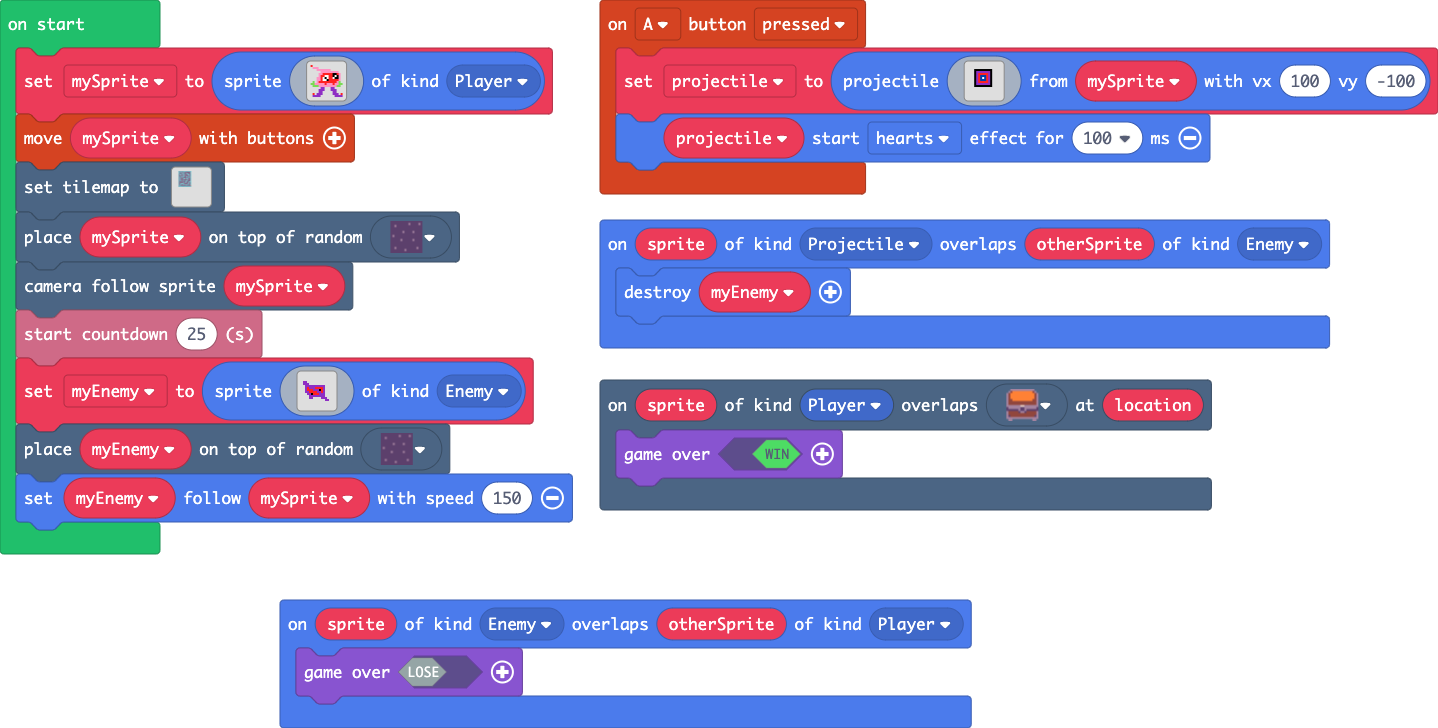
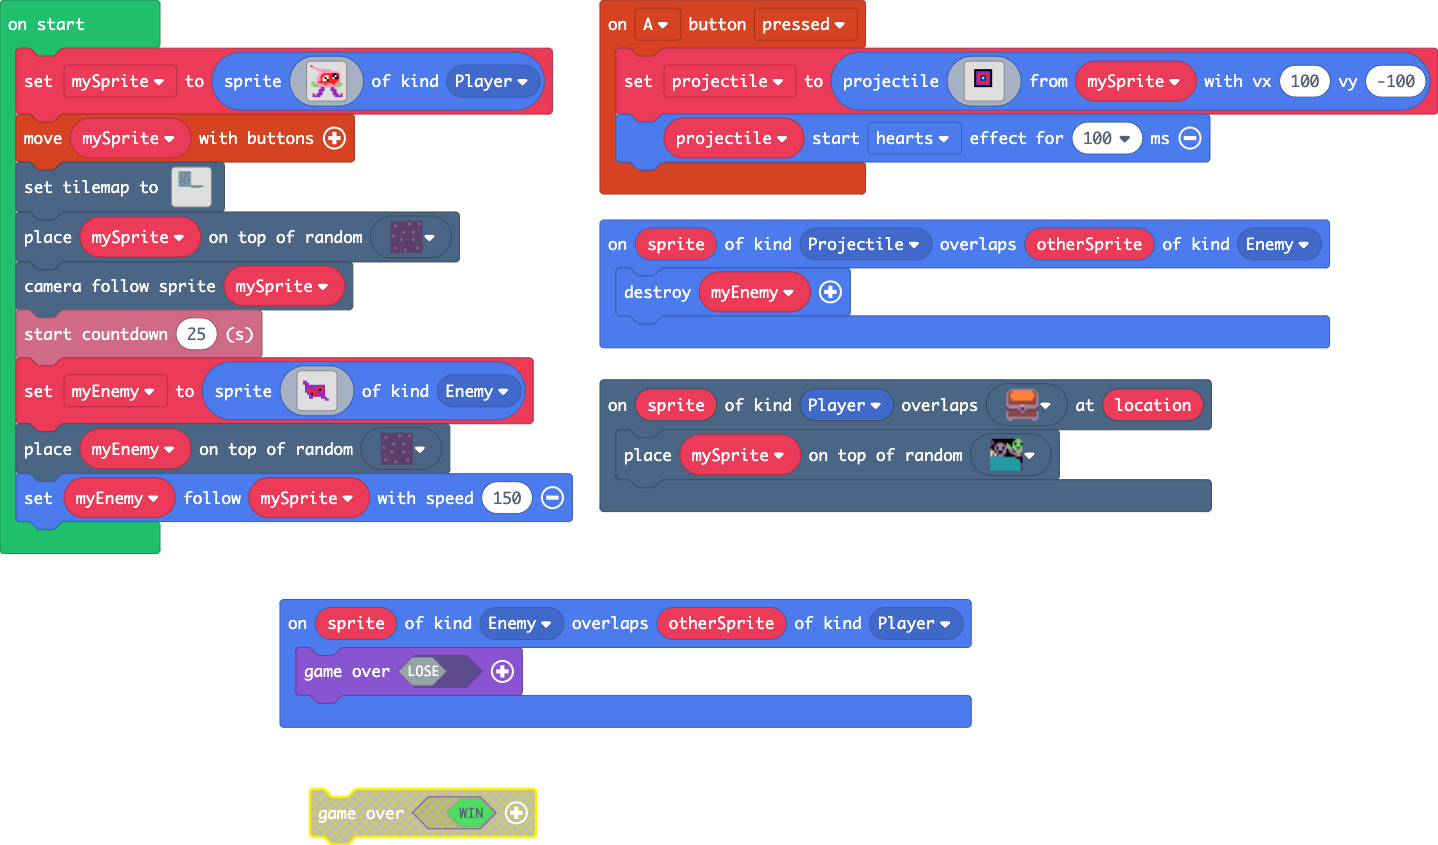
Update main.blocks, main.ts

diff --git a/main.ts b/main.ts
@@ -47,7 +47,7 @@ controller.A.onEvent(ControllerButtonEvent.Pressed, function () {
     projectile.startEffect(effects.hearts, 100)
 })
 scene.onOverlapTile(SpriteKind.Player, sprites.dungeon.chestClosed, function (sprite, location) {
-    game.over(true)
+    tiles.placeOnRandomTile(mySprite, sprites.builtin.crowd9)
 })
 let projectile: Sprite = null
 let myEnemy: Sprite = null
@@ -72,7 +72,7 @@ mySprite = sprites.create(img`
 `, SpriteKind.Player)
 controller.moveSprite(mySprite)
 tiles.setTilemap(tiles.createTilemap(
-            hex`200028001717171717171717171717171717171700000000000000000000000000000000171414141414141714141414141414170000000000000000000000000000000017171717171714171414141414141417000000000000000000000000000000001714141414171417141417171714141700000000000000000000000000000000171417171417141714141414171714170000000000000000000000000000000017141417141714171414141414171417000000000000000000000000000000001714141414141417141417141417141700000000000000000000000000000000171417171717171714141717141714170000000000000000000000000000000017141714141414141414141714171417000000000000000000000000000000001714171414141717171417171414141700000000000000000000000000000000171417141414171414141417141414170000000000000000000000000000000017141714141414141414141714141417000000000000000000000000000000001714171714141717141717171414141700000000000000000000000000000000171414141414141414171414141717170000000000000000000000000000000017141414141417141417141414171417000000000000000000000000000000001714141717171714141414141717141700000000000000000000000000000000171414171414171414141414141414170000000000000000000000000000000017141717141417171717171717171417000000000000000000000000000000001714171414141414141414141414141900000000000000000000000000000000171717171717171717171717171717170000000000000000000000000000000000000000000000000000000000000000000000000000000000000000000000000000000000000000000000000000000000000000000000000000000000000000000000000000000000000000000000000000000000000000000000000000000000000000000000000000000000000000000000000000000000000000000000000000000000000000000000000000000000000000000000000000000000000000000000000000000000000000000000000000000000000000000000000000000000000000000000000000000000000000000000000000000000000000000000000000000000000000000000000000000000000000000000000000000000000000000000000000000000000000000000000000000000000000000000000000000000000000000000000000000000000000000000000000000000000000000000000000000000000000000000000000000000000000000000000000000000000000000000000000000000000000000000000000000000000000000000000000000000000000000000000000000000000000000000000000000000000000000000000000000000000000000000000000000000000000000000000000000000000000000000000000000000000000000000000000000000000000000000000000000000000000000000000000000000000000000000000000000000000000000000000000000000000000000000000000000000000000000000000000000000000000000000000000000000000000000000000000000000000000000000000000000000000000000000000000000000000000000000000000000000000000000000000000000000000000000000000000000000000000000000000000000000000000`,
[1 lines of base64/hex data omitted]
             img`
 2 2 2 2 2 2 2 2 2 2 2 2 2 2 2 2 . . . . . . . . . . . . . . . . 
 2 . . . . . . 2 . . . . . . . 2 . . . . . . . . . . . . . . . . 
@@ -115,7 +115,7 @@ tiles.setTilemap(tiles.createTilemap(
 . . . . . . . . . . . . . . . . . . . . . . . . . . . . . . . . 
 . . . . . . . . . . . . . . . . . . . . . . . . . . . . . . . . 
 `,
-            [myTiles.tile0,sprites.castle.tileGrass2,sprites.castle.tilePath1,sprites.builtin.forestTiles21,sprites.builtin.forestTiles7,sprites.builtin.forestTiles11,sprites.builtin.forestTiles15,sprites.builtin.forestTiles14,sprites.builtin.forestTiles12,sprites.builtin.forestTiles13,sprites.builtin.forestTiles9,sprites.builtin.forestTiles5,sprites.builtin.forestTiles6,sprites.builtin.forestTiles16,sprites.builtin.forestTiles10,sprites.builtin.coral2,sprites.builtin.oceanDepths7,sprites.dungeon.stairLadder,sprites.dungeon.darkGroundWest,sprites.dungeon.darkGroundNorthWest1,sprites.dungeon.darkGroundCenter,sprites.dungeon.darkGroundSouth,sprites.dungeon.darkGroundNorthWest0,sprites.dungeon.collectibleInsignia,sprites.dungeon.chestOpen,sprites.dungeon.chestClosed],
+            [myTiles.tile0,sprites.castle.tileGrass2,sprites.castle.tilePath1,sprites.builtin.forestTiles21,sprites.builtin.forestTiles7,sprites.builtin.forestTiles11,sprites.builtin.forestTiles15,sprites.builtin.forestTiles14,sprites.builtin.forestTiles12,sprites.builtin.forestTiles13,sprites.builtin.forestTiles9,sprites.builtin.forestTiles5,sprites.builtin.forestTiles6,sprites.builtin.forestTiles16,sprites.builtin.forestTiles10,sprites.builtin.coral2,sprites.builtin.oceanDepths7,sprites.dungeon.stairLadder,sprites.dungeon.darkGroundWest,sprites.dungeon.darkGroundNorthWest1,sprites.dungeon.darkGroundCenter,sprites.dungeon.darkGroundSouth,sprites.dungeon.darkGroundNorthWest0,sprites.dungeon.collectibleInsignia,sprites.dungeon.chestOpen,sprites.dungeon.chestClosed,sprites.vehicle.roadIntersection4,sprites.builtin.crowd9],
             TileScale.Sixteen
         ))
 tiles.placeOnRandomTile(mySprite, sprites.dungeon.darkGroundCenter)
